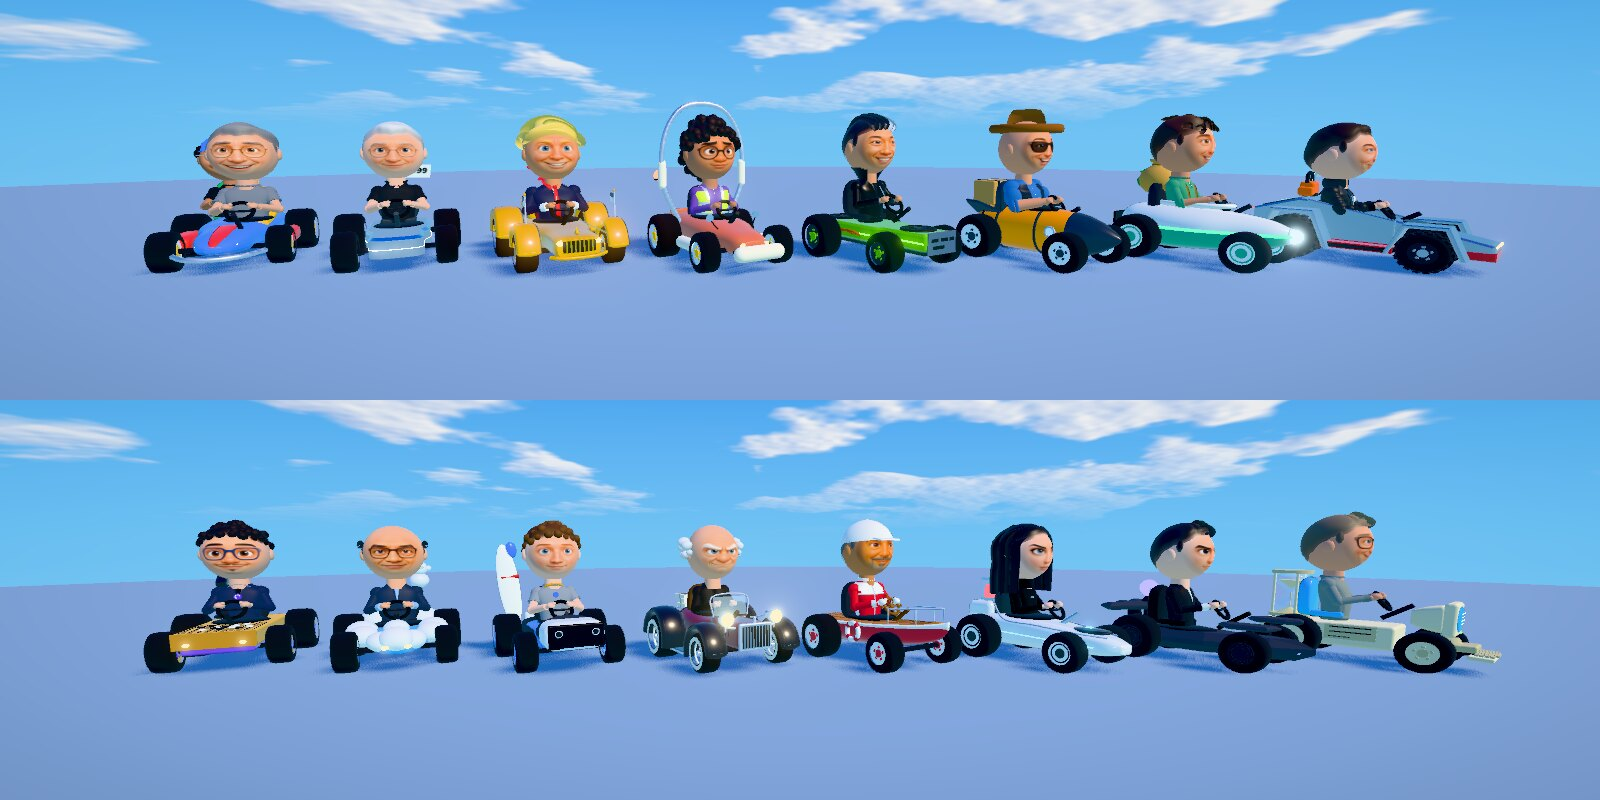
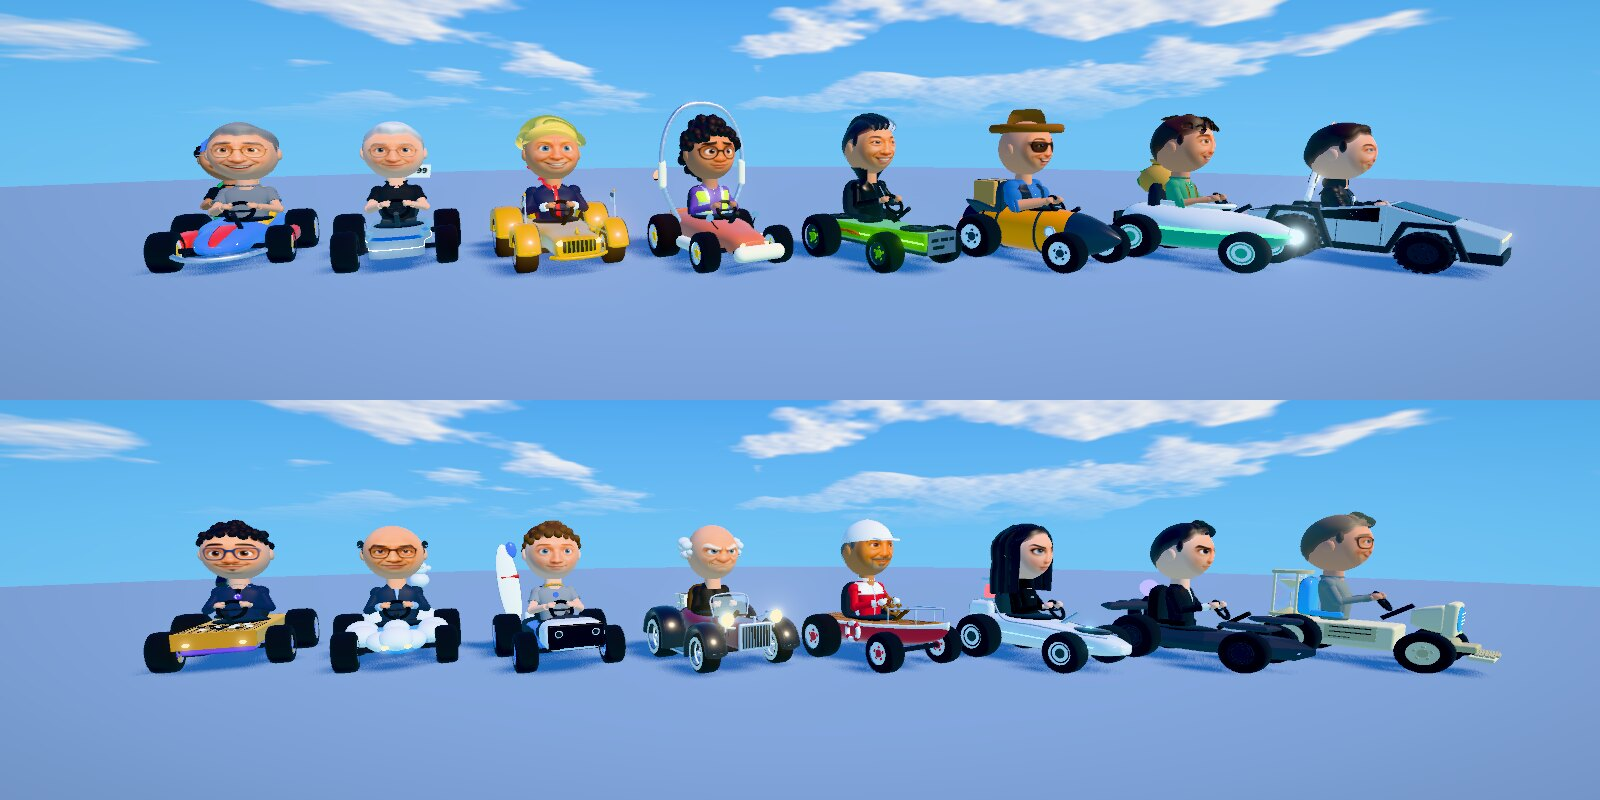
Elon drives a Cybertruck; the Man burns on the final lap; Datacenter Dash's sky fills with smog (#65)
Elon's kart is rebuilt from photographs of the truck: one crease from nose to
a single roof peak, one slope back to a sheer tail, slab sides, black
trapezoid arches, a slatted bed cover, and a light bar across each end.

Burning Circuit: flames climb the Man lap by lap and the final lap is an
inferno, with a smoke column, embers across the road, and a sky that catches.

Datacenter Dash: the sky starts blue and is brown by the flag.

Changed region(s): [[0.7812, 0.2188, 0.9688, 0.3438]]

diff --git a/src/models/kart-bodies.js b/src/models/kart-bodies.js
@@ -86,50 +86,51 @@ function standard({ b, K }) {
 }
 
 /* ---------- wedge: an angular brushed-steel truck ---------- */
-function wedge({ b, K, M, main }) {
-  M.main = paint(main, { rough: 0.3, clear: 0.7 });
-  M.body = paint(0xc5cad1, { rough: 0.24, metal: 0.92, clear: 0.3 });
-  M.tail = glow(0xff2a2a, 2.2);
-  const bev = { bevel: 0.03 };
-  // hood: one long flat plane rising from the nose to the cockpit
-  b.add('body', side([[1.44, 0.26], [1.44, 0.46], [0.42, 0.735], [0.42, 0.26]], 0.36, bev));
-  // cockpit walls follow the same line up to the peak behind the driver
-  for (const sx of [1, -1]) b.add('body', side([[0.44, 0.26], [0.44, 0.735], [-0.62, 1.0], [-0.62, 0.26]], 0.045, { bevel: 0.015 }), { p: [sx * 0.415, 0, 0] });
-  b.add('body', side([[0.44, 0.26], [0.44, 0.42], [-0.62, 0.42], [-0.62, 0.26]], 0.42, bev));
-  // the tail block: a flat ridge, then one long slope down to a sheer back
-  b.add('body', side([[-0.58, 0.26], [-0.58, 0.985], [-0.72, 1.0], [-1.34, 0.8], [-1.34, 0.26]], 0.46, bev));
-  // tinted glass on both slopes
-  const hoodY = z => 0.46 + (1.44 - z) * (0.275 / 1.02), tailY = z => 1.0 - (-0.72 - z) * (0.2 / 0.62);
-  b.add('second', side([[0.98, hoodY(0.98)], [0.5, hoodY(0.5)], [0.5, hoodY(0.5) + 0.02], [0.98, hoodY(0.98) + 0.02]], 0.29, { bevel: 0.006 }));
-  b.add('second', side([[-0.8, tailY(-0.8)], [-1.24, tailY(-1.24)], [-1.24, tailY(-1.24) + 0.02], [-0.8, tailY(-0.8) + 0.02]], 0.38, { bevel: 0.006 }));
-  // red skirts and angular flares
-  b.add('main', side([[0.4, 0.235], [1.46, 0.235], [1.46, 0.36], [0.4, 0.36]], 0.37, { bevel: 0.015 }));
-  b.add('main', side([[-1.36, 0.235], [0.42, 0.235], [0.42, 0.36], [-1.36, 0.36]], 0.47, { bevel: 0.015 }));
+function wedge({ b, K, M }) {
+  // The stainless pickup, from photographs: one crease from nose to a single roof peak, one long slope back to a
+  // sheer tail, slab sides, black trapezoid arches, a light bar across each end. Open-topped so the driver shows.
+  M.body = paint(0xd3d7dc, { rough: 0.36, metal: 0.55, clear: 0.2 });   // brushed, not mirror: a mirror goes black under a sunset sky
+  M.glassd = plastic(0x0a0c11, 0.06, 0.7);
+  M.tail = glow(0xff2a2a, 2.4);
+  const bev = { bevel: 0.018 };
+  const PZ = 0.34, PY = 0.98, NZ = 1.5, NY = 0.6, TZ = -1.42, TY = 0.72, CZ = -0.76;       // peak, nose top, tail top, back of the cockpit
+  const hood = z => NY + (NZ - z) * (PY - NY) / (NZ - PZ), roof = z => PY - (PZ - z) * (PY - TY) / (PZ - TZ);
+  // nose to peak: bonnet and windshield are one plane
+  b.add('body', side([[NZ, 0.26], [NZ, NY], [PZ, PY], [PZ, 0.26]], 0.56, bev));
+  // cab sides carry the roofline back; the bed is one block under the sloping cover
+  for (const sx of [1, -1]) b.add('body', side([[PZ + 0.02, 0.26], [PZ + 0.02, PY], [CZ, roof(CZ)], [CZ, 0.26]], 0.05, { bevel: 0.012 }), { p: [sx * 0.51, 0, 0] });
+  b.add('body', side([[PZ + 0.02, 0.26], [PZ + 0.02, 0.42], [CZ, 0.42], [CZ, 0.26]], 0.5, bev));
+  b.add('body', side([[CZ + 0.02, 0.26], [CZ + 0.02, roof(CZ)], [TZ, TY], [TZ, 0.26]], 0.56, bev));
+  // dark glass: the huge flat windshield, and the wedge of side window under the roofline
+  b.add('glassd', side([[1.02, hood(1.02) + 0.004], [PZ + 0.05, hood(PZ + 0.05) + 0.004], [PZ + 0.05, hood(PZ + 0.05) + 0.02], [1.02, hood(1.02) + 0.02]], 0.5, { bevel: 0.004 }));
+  for (const sx of [1, -1]) b.add('glassd', side([[PZ - 0.06, 0.7], [PZ - 0.06, PY - 0.045], [CZ + 0.12, roof(CZ + 0.12) - 0.04], [CZ + 0.3, 0.7]], 0.006, { bevel: 0 }), { p: [sx * 0.563, 0, 0] });
+  // the bed cover, in slats
+  for (let k = 0; k < 5; k++) { const z0 = CZ - 0.06 - k * 0.118, z1 = z0 - 0.1; b.add('black', side([[z0, roof(z0) + 0.004], [z1, roof(z1) + 0.004], [z1, roof(z1) + 0.016], [z0, roof(z0) + 0.016]], 0.47, { bevel: 0.003 })); }
+  // black lower cladding: bumpers, sills, and the trapezoid arches
+  b.add('black', side([[NZ + 0.03, 0.22], [NZ + 0.03, 0.37], [1.14, 0.37], [1.14, 0.22]], 0.575, { bevel: 0.012 }));
+  b.add('black', side([[TZ - 0.03, 0.22], [TZ - 0.03, 0.33], [-1.12, 0.33], [-1.12, 0.22]], 0.575, { bevel: 0.012 }));
+  b.add('black', side([[0.42, 0.22], [0.42, 0.33], [-0.3, 0.33], [-0.3, 0.22]], 0.585, { bevel: 0.01 }));
   for (const sx of [1, -1]) {
-    // trapezoid steel wheel arches, bolted to the body sides, legs down to red running boards between the wheels
-    b.add('body', side(shiftZ(arch(K.frontR, -0.07, 0.05), K.frontZ), 0.235, { bevel: 0.014 }), { p: [sx * 0.575, 0, 0] });
-    b.add('body', side(shiftZ(arch(K.rearR, -0.13, 0.055), K.rearZ), 0.225, { bevel: 0.014 }), { p: [sx * 0.665, 0, 0] });
-    b.add('main', box(0.34, 0.1, 0.84, 0.02, 1), { p: [sx * 0.55, 0.29, 0.06] });
-    b.add('black', box(0.02, 0.06, 0.7, 0.008, 1), { p: [sx * 0.722, 0.29, 0.06] });
-    // arch liners so the wheel wells read dark, not see-through
-    b.add('black', side(shiftZ([[K.frontR + 0.06, K.frontR - 0.07], [K.frontR * 0.55 + 0.03, 2 * K.frontR + 0.05], [-(K.frontR * 0.55 + 0.03), 2 * K.frontR + 0.05], [-(K.frontR + 0.06), K.frontR - 0.07]], K.frontZ), 0.012, { bevel: 0 }), { p: [sx * 0.36, 0, 0] });
+    b.add('black', side(shiftZ(arch(K.frontR, -0.07, 0.075), K.frontZ), 0.1, { bevel: 0.012 }), { p: [sx * 0.585, 0, 0] });
+    b.add('black', side(shiftZ(arch(K.rearR, -0.13, 0.08), K.rearZ), 0.11, { bevel: 0.012 }), { p: [sx * 0.6, 0, 0] });
+    // door seams, so the slab sides read as panels
+    for (const z of [PZ - 0.02, -0.2]) b.add('black', sbox(0.004, 0.36, 0.008), { p: [sx * 0.562, 0.5, z] });
   }
-  // the famous unbreakable rear window, cracked
-  {
-    const cz = -1.0, cy = tailY(cz) + 0.03, sl = Math.atan(0.2 / 0.62);
-    for (let i = 0; i < 7; i++) { const a = i / 7 * PI * 2 + 0.3, l = 0.1 + (i % 3) * 0.04; b.add('white', sbox(l, 0.008, 0.008), { p: [0.1 + Math.cos(a) * l / 2, cy + Math.sin(a) * l / 2 * Math.sin(sl), cz + Math.sin(a) * l / 2 * Math.cos(sl)], r: [-sl, -a, 0] }); }
-    b.add('white', torus(0.07, 0.005, 3, 12), { p: [0.1, cy, cz], r: [PI / 2 - sl, 0, 0] });
+  // the unbreakable window, as demonstrated
+  for (const [cx, cz] of [[-0.566, 0.02]]) {
+    const cy = 0.8;
+    for (let i = 0; i < 7; i++) { const a = i / 7 * PI * 2 + 0.3, l = 0.07 + (i % 3) * 0.03; b.add('white', sbox(0.006, 0.006, l), { p: [cx, cy + Math.sin(a) * l / 2, cz + Math.cos(a) * l / 2], r: [-a, 0, 0] }); }
+    b.add('white', torus(0.045, 0.004, 3, 12), { p: [cx, cy, cz], r: [0, PI / 2, 0] });
   }
-  // full-width light bars
-  b.add('lamp', box(0.66, 0.035, 0.03, 0.01, 1), { p: [0, 0.445, 1.452] });
-  b.add('tail', box(0.88, 0.035, 0.03, 0.01, 1), { p: [0, 0.775, -1.352] });
-  for (const sx of [1, -1]) b.add('black', box(0.1, 0.06, 0.02, 0.01, 1), { p: [sx * 0.4, 0.3, -1.35] });
-  // seat: the tail face is the backrest
+  // light bars: one white line across the nose, one red across the tail
+  b.add('lamp', box(1.06, 0.03, 0.03, 0.008, 1), { p: [0, NY - 0.03, NZ + 0.006] });
+  b.add('tail', box(1.06, 0.035, 0.03, 0.008, 1), { p: [0, TY - 0.04, TZ - 0.006] });
+  // seat against the bed wall
   b.add('seat', box(0.5, 0.1, 0.42, 0.04, 2), { p: [0, 0.47, -0.36] });
-  b.add('seat', box(0.5, 0.42, 0.06, 0.03, 2), { p: [0, 0.74, -0.55] });
+  b.add('seat', box(0.5, 0.4, 0.06, 0.03, 2), { p: [0, 0.7, -0.62] });
   column(b, { x: 0, y: 0.5, z: -0.3 });
   axles(b, K);
-  return { plate: { p: [0, 0.6, -1.36], rx: 0 }, exhausts: [[0.44, 0.26, -1.36], [-0.44, 0.26, -1.36]], wheel: { style: 'knobby', rim: MAT.dark, hub: M.body } };
+  return { plate: { p: [0, 0.535, TZ - 0.012], rx: 0, s: 0.66 }, exhausts: [[0.44, 0.28, TZ - 0.02], [-0.44, 0.28, TZ - 0.02]], wheel: { style: 'knobby', rim: MAT.dark, hub: MAT.dark } };
 }
 
 /* ---------- pod: a smooth two-tone egg with a glowing waist ---------- */

diff --git a/src/tracks/burning-circuit.js b/src/tracks/burning-circuit.js
@@ -297,6 +297,46 @@ export default {
       if (smoke) for (let k = 0, n = view.fx.count(1.5 + reach * 0.15, dt); k < n && pts.length; k++) { const p = pts[Math.floor(rng() * pts.length)]; smoke.emit({ x: p.x, y: p.y + 3, z: p.z, vx: rng.range(-0.8, 0.8), vy: 4 + rng() * 2, vz: rng.range(-0.8, 0.8), color: [0.14, 0.12, 0.12], color2: [0.42, 0.36, 0.36], size: 6 + rng() * 4, grow: 2.2, drag: 0.2, gravity: -0.3, life: 7 + rng() * 3, alpha: 0.6, fadeIn: 0.08, spin: rng.range(-0.3, 0.3), rot: rng() * 6.28 }); }
     });
 
+    // ---- the burn you cannot miss: real flames climbing the Man, a smoke column, and a sky that catches ----
+    {
+      const tex = new THREE.CanvasTexture(Object.assign(document.createElement('canvas'), { width: 8, height: 128 }));
+      { const g = tex.image.getContext('2d'), gr = g.createLinearGradient(0, 128, 0, 0); gr.addColorStop(0, 'rgba(255,244,190,1)'); gr.addColorStop(0.25, 'rgba(255,170,40,0.95)'); gr.addColorStop(0.7, 'rgba(240,70,10,0.6)'); gr.addColorStop(1, 'rgba(160,20,0,0)'); g.fillStyle = gr; g.fillRect(0, 0, 8, 128); }
+      tex.colorSpace = THREE.SRGBColorSpace;
+      const cone = new THREE.ConeGeometry(1, 1, 10, 4, true); cone.translate(0, 0.5, 0);
+      const mat = new THREE.MeshBasicMaterial({ map: tex, color: new THREE.Color(2.2, 1.7, 1.2), transparent: true, blending: THREE.AdditiveBlending, depthWrite: false, side: THREE.DoubleSide, fog: false });
+      // tongues of flame at burn points up the body, plus a crown over the head
+      const pts = body.slice().sort((p, q) => p.lvl - q.lvl), N = 16, top = pts[pts.length - 1];
+      const tongues = []; for (let k = 0; k < N; k++) { const p = pts[Math.floor((k + 0.5) / N * pts.length)]; tongues.push({ x: p.x, y: p.y - 1.5, z: p.z, lvl: p.lvl, r: 3.2 + rng() * 2.4, h: 10 + rng() * 8, ph: rng() * 6.28 }); }
+      tongues.push({ x: top.x, y: top.y, z: top.z, lvl: 31, r: 7, h: 30, ph: 1.3 }, { x: top.x, y: top.y - 6, z: top.z, lvl: 28, r: 9, h: 20, ph: 4.1 });
+      const flames = new THREE.InstancedMesh(cone, mat, tongues.length); flames.frustumCulled = false; flames.renderOrder = 6; ctx.group.add(flames);
+      const column = new THREE.Mesh(new THREE.CylinderGeometry(26, 5, 150, 14, 1, true), new THREE.MeshBasicMaterial({ color: 0x1c1614, transparent: true, opacity: 0, depthWrite: false, side: THREE.DoubleSide, fog: false }));
+      column.position.set(top.x, top.y + 82, top.z); column.renderOrder = 5; ctx.group.add(column);
+      const FIRE = { zenith: 0x3a0e14, horizon: 0xff5a1c, ground: 0xb8401c, fog: 0xc8552a, fogNear: 110, fogFar: 700, hemiSky: 0xff9a5c, hemiGround: 0xc0603a, cloud: 0xff9a5a, cloudShade: 0x5a1c18 };
+      const M = new THREE.Matrix4(), Q = new THREE.Quaternion(), V = new THREE.Vector3(), S = new THREE.Vector3();
+      let reach = 2, heat = 0, t = 0, fell = false;
+      anim.push(dt => {
+        t += dt;
+        const lap = view.showLap || 1, laps = view.race?.laps ?? 3, last = lap >= laps;
+        reach += ((last ? 34 : lap >= laps - 1 ? 15 : 5) - reach) * Math.min(1, dt * 0.5);
+        heat += ((last ? 1 : 0) - heat) * Math.min(1, dt * 0.35);
+        tongues.forEach((f, k) => {
+          const on = smoothstep(f.lvl - 2, f.lvl + 2, reach), fl = 0.78 + 0.22 * Math.sin(t * 9 + f.ph) + 0.12 * Math.sin(t * 23 + f.ph * 2);
+          S.set(f.r * on * (0.9 + 0.1 * Math.sin(t * 13 + f.ph)), Math.max(0.001, f.h * on * fl * (1 + heat * 0.5)), f.r * on);
+          M.compose(V.set(f.x + Math.sin(t * 3 + f.ph) * 0.5, f.y, f.z), Q.setFromAxisAngle(V.clone().set(0, 1, 0), t * 0.6 + f.ph), S); flames.setMatrixAt(k, M);
+        });
+        flames.instanceMatrix.needsUpdate = true;
+        column.material.opacity = 0.16 * smoothstep(8, 16, reach) + 0.5 * heat; column.rotation.y = t * 0.07;
+        ctx.gfx.shiftSky(FIRE, heat * (0.72 + 0.1 * Math.sin(t * 5.3) + 0.06 * Math.sin(t * 11.7)));
+        if (heat > 0.3) {
+          // embers on the wind, across the road around the Bowl
+          for (let k = 0, n = view.fx.count(60 * heat, dt); k < n; k++) { const a = rng() * 6.28, d = 10 + rng() * 70; view.fx.spark(top.x + Math.cos(a) * d, top.y - 30 + rng() * 34, top.z + Math.sin(a) * d, 5 + rng() * 4, -1 + rng() * 3, rng.range(-3, 3), [1, 0.55, 0.15], 0.5 + rng() * 0.5, 1.6 + rng()); }
+          if (smoke) for (let k = 0, n = view.fx.count(6 * heat, dt); k < n; k++) smoke.emit({ x: top.x + rng.range(-5, 5), y: top.y + rng() * 20, z: top.z + rng.range(-5, 5), vx: 2 + rng(), vy: 9 + rng() * 5, vz: rng.range(-1, 1), color: [0.1, 0.08, 0.08], color2: [0.3, 0.26, 0.25], size: 14 + rng() * 12, life: 5 + rng() * 3, grow: 2.2, alpha: 0.6 });
+        }
+        // the flag: he goes up in one last roar
+        if (!fell && view.showProgress >= 1) { fell = true; view.fx.burst(top.x, top.y - 10, top.z, 220, [1, 0.6, 0.15], 34, 1.2, 2.6, 14); tongues.forEach(f => { f.h *= 1.5; f.r *= 1.25; }); }
+      });
+    }
+
     // ---- the temple, across the playa ----
     bake.add(sc.place(B.temple({ h: 16 }), TEMPLE.x, TEMPLE.z, { yaw: 0.35 }));
     const lanterns = []; for (let k = 0; k < 10; k++) { const a = (k / 10) * Math.PI * 2; lanterns.push({ x: TEMPLE.x + Math.cos(a) * 17, z: TEMPLE.z + Math.sin(a) * 17, yaw: a }); }

diff --git a/src/tracks/datacenter-dash.js b/src/tracks/datacenter-dash.js
@@ -584,7 +584,7 @@ function decorate(ctx) {
       palls.push({ m, x: m.position.x, z: m.position.z, ph: k * 2 + y, drift: off > 100 });
     }
   });
-  anim.push((dt, time) => { for (const p of palls) { p.m.rotation.y = time * 0.01 + p.ph; const f = p.drift ? (time * 4) % 260 : 0; p.m.position.x = p.x + wx * f + Math.sin(time * 0.05 + p.ph) * 8; p.m.position.z = p.z + wz * f; p.m.material.opacity = p.m.material.opacity; } });
+  anim.push((dt, time) => { const sg = view.dcLake?.smog ?? 0; for (const p of palls) { p.op0 ??= p.m.material.opacity; p.m.material.opacity = Math.min(1, p.op0 * (0.55 + 1.5 * sg)); p.m.rotation.y = time * 0.01 + p.ph; const f = p.drift ? (time * 4) % 260 : 0; p.m.position.x = p.x + wx * f + Math.sin(time * 0.05 + p.ph) * 8; p.m.position.z = p.z + wz * f; p.m.material.opacity = p.m.material.opacity; } });
 
   // ---- pines over every slope, and a few on the campus edges ----
   const keep = (x, z) => !inHall(x, z) && !TOWERS.some(t => near(x, z, t, 22)) && !dishes.some(d => near(x, z, d, 16)) && !chains.flat().some(([px, pz]) => near(x, z, { x: px, z: pz }, 7))
@@ -1157,7 +1157,9 @@ function reservoir({ THREE, track, ctx, sc, rng, bake, atlas, view }) {
   }
 
   // update: everything follows the race's lake level
-  const st = { level: LAKE.full, lap: 1, pct: 100, shown: -1, t: 0 };
+  const st = { level: LAKE.full, lap: 1, pct: 100, shown: -1, t: 0, smog: 0 };
+  const SMOG = { zenith: 0x6f5e48, horizon: 0xb5996c, ground: 0xa58d6c, sun: 0xffa860, cloud: 0xb7a58a, cloudShade: 0x74644f, cloudCover: 0.88, fog: 0xa88e68, fogNear: 70, fogFar: 560,
+    sunLight: 0xffb070, sunIntensity: 2.1, hemiSky: 0xc9ad84, hemiGround: 0x6f6a4c, panoTint: [0.78, 0.62, 0.44] };
   view.dcLake = st;
   const Yax = new THREE.Vector3(0, 1, 0), Mx = new THREE.Matrix4(), Q = new THREE.Quaternion(), S = new THREE.Vector3(), Pp = new THREE.Vector3(), Z = new THREE.Vector3(0, 0, 1);
   const cWet = new THREE.Color(0x8a8070), cDry = new THREE.Color(0xffffff);
@@ -1167,6 +1169,9 @@ function reservoir({ THREE, track, ctx, sc, rng, bake, atlas, view }) {
     st.level = Number.isFinite(y) ? y : LAKE.full;
     st.lap = race?.lakeLap ? Math.min(race.lakeLap, race.laps) : 1;
     water.position.y = st.level;
+    // the sky starts blue and is brown by the flag: the plants have had three laps to work on it
+    st.smog += (Math.min(1, (view.showProgress || 0) * 1.2) - st.smog) * Math.min(1, dt * 0.6);
+    ctx.gfx.shiftSky(SMOG, st.smog);
     const f = clamp((LAKE.full - st.level) / (LAKE.full - LAKE.low), 0, 1);
     waterMat.color.copy(cFull).lerp(cLow, f * 0.55);
     crackMat.color.copy(cWet).lerp(cDry, race && race.lakeLap >= race.laps ? 1 : 0);
